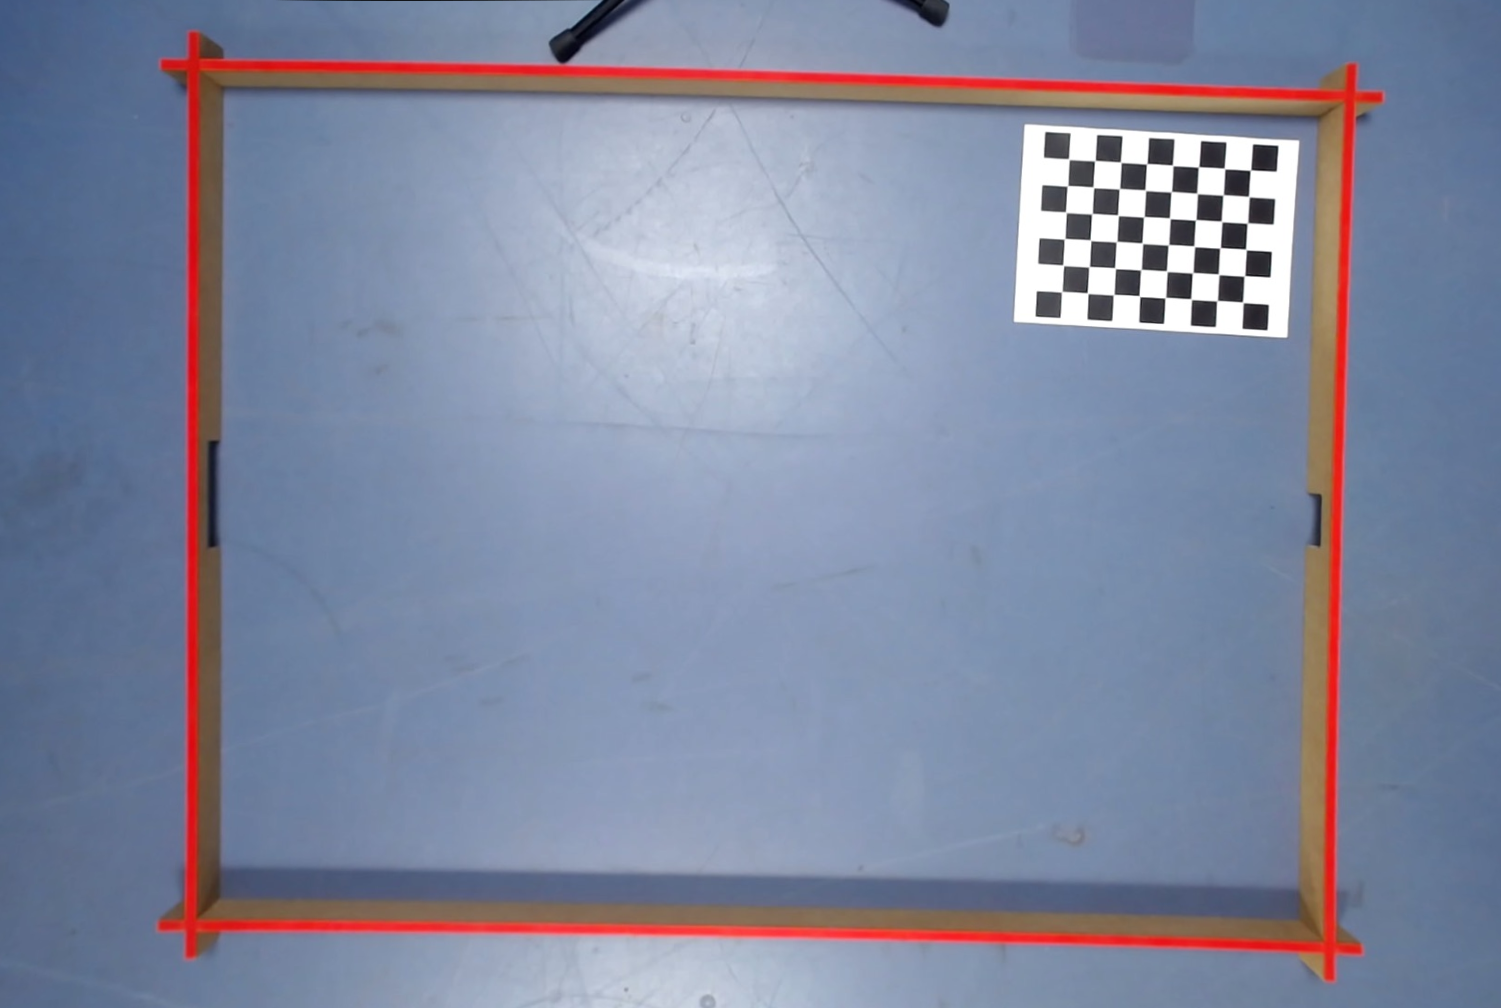
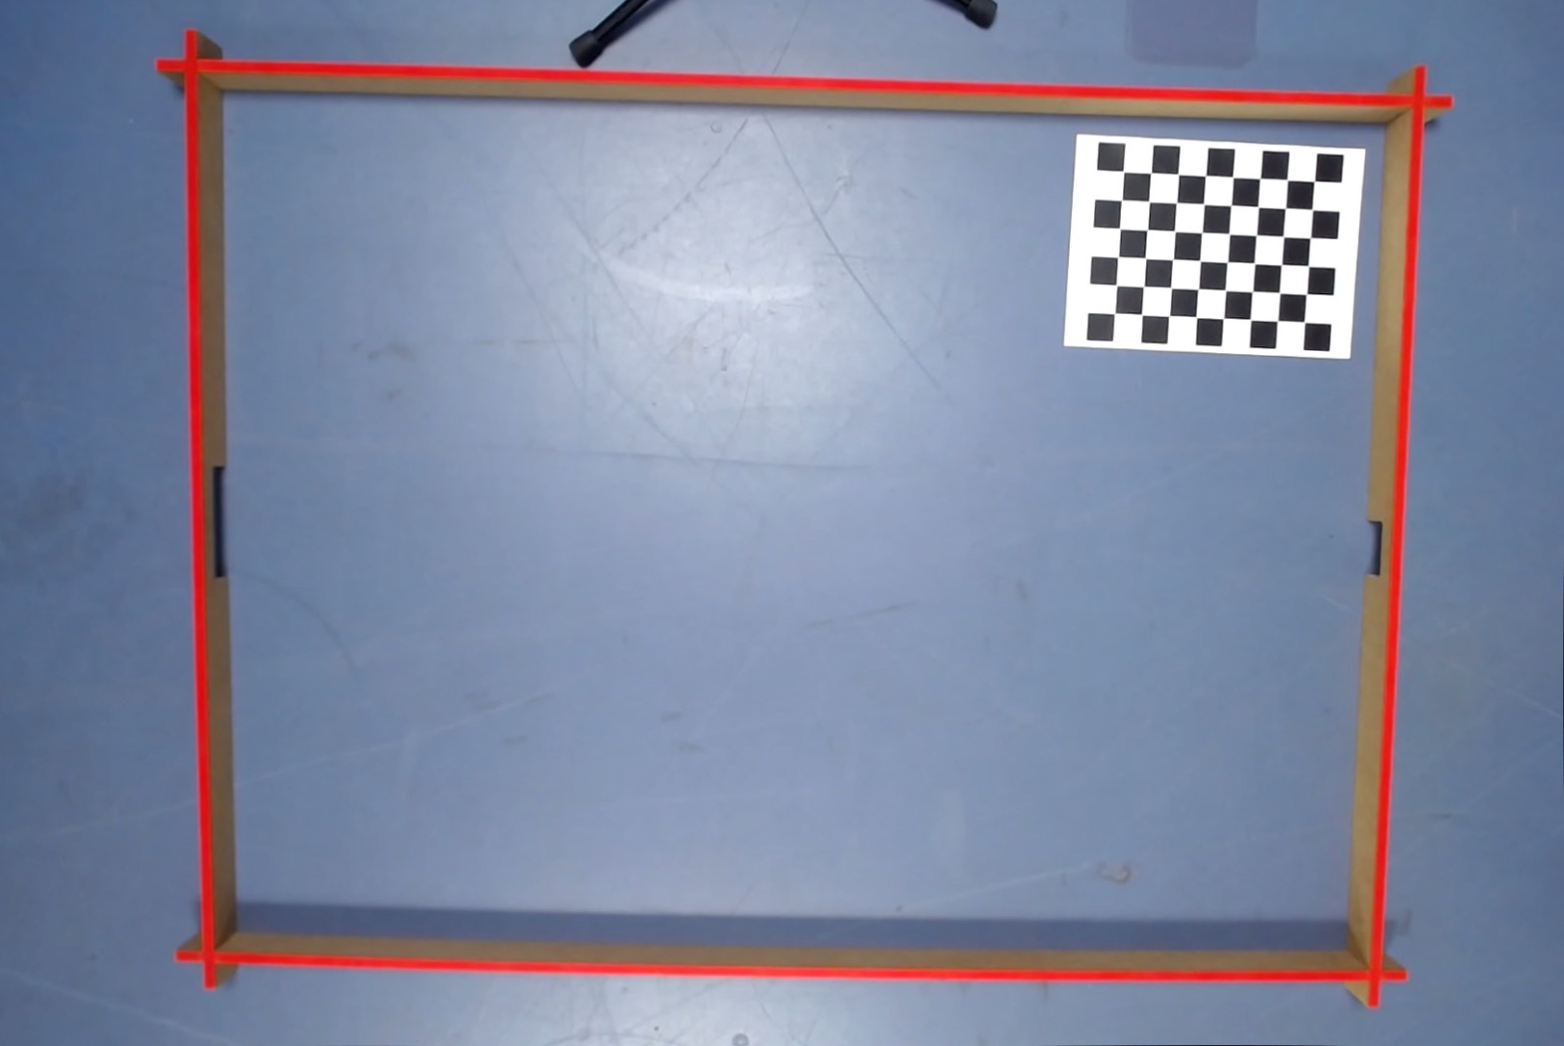
Something

diff --git a/OpenCV/Comm.py b/OpenCV/Comm.py
@@ -6,7 +6,9 @@ import numpy as np
 from CVInterface import CVInterface
 from Server1 import Server
 
-H = np.matrix([[ 5.37461851e-02, 1.05530039e+00, -2.68980926e+02], [-9.88030481e-01,-2.64089940e-02, 1.11777504e+03], [1.09320280e-04, 2.59694046e-05, 1.00000000e+00]])
+H = np.matrix([[-4.95507336e-03,  9.86068684e-01,  3.47332870e+02],
+ [-1.00641543e+00, -4.58681401e-02,  1.97729987e+03],
+ [ 8.01288522e-06, -5.08965362e-06,  1.00000000e+00]])
 
 
 def convert_to_normalized(pixel_coords, square_bottom_left, square_top_right):
@@ -229,9 +231,9 @@ def deposit_balls(cv, boundrypixel, server):
             if not is_parked:
                 server.send_key_input("forward")
             elif not balls_deposited:
-                server.send_key_input("forward")
+                server.send_key_input("k")
+                balls_deposited = True
                 sleep(5)
-                pass
 
         sleep(1 + turn_in_seconds)
         
